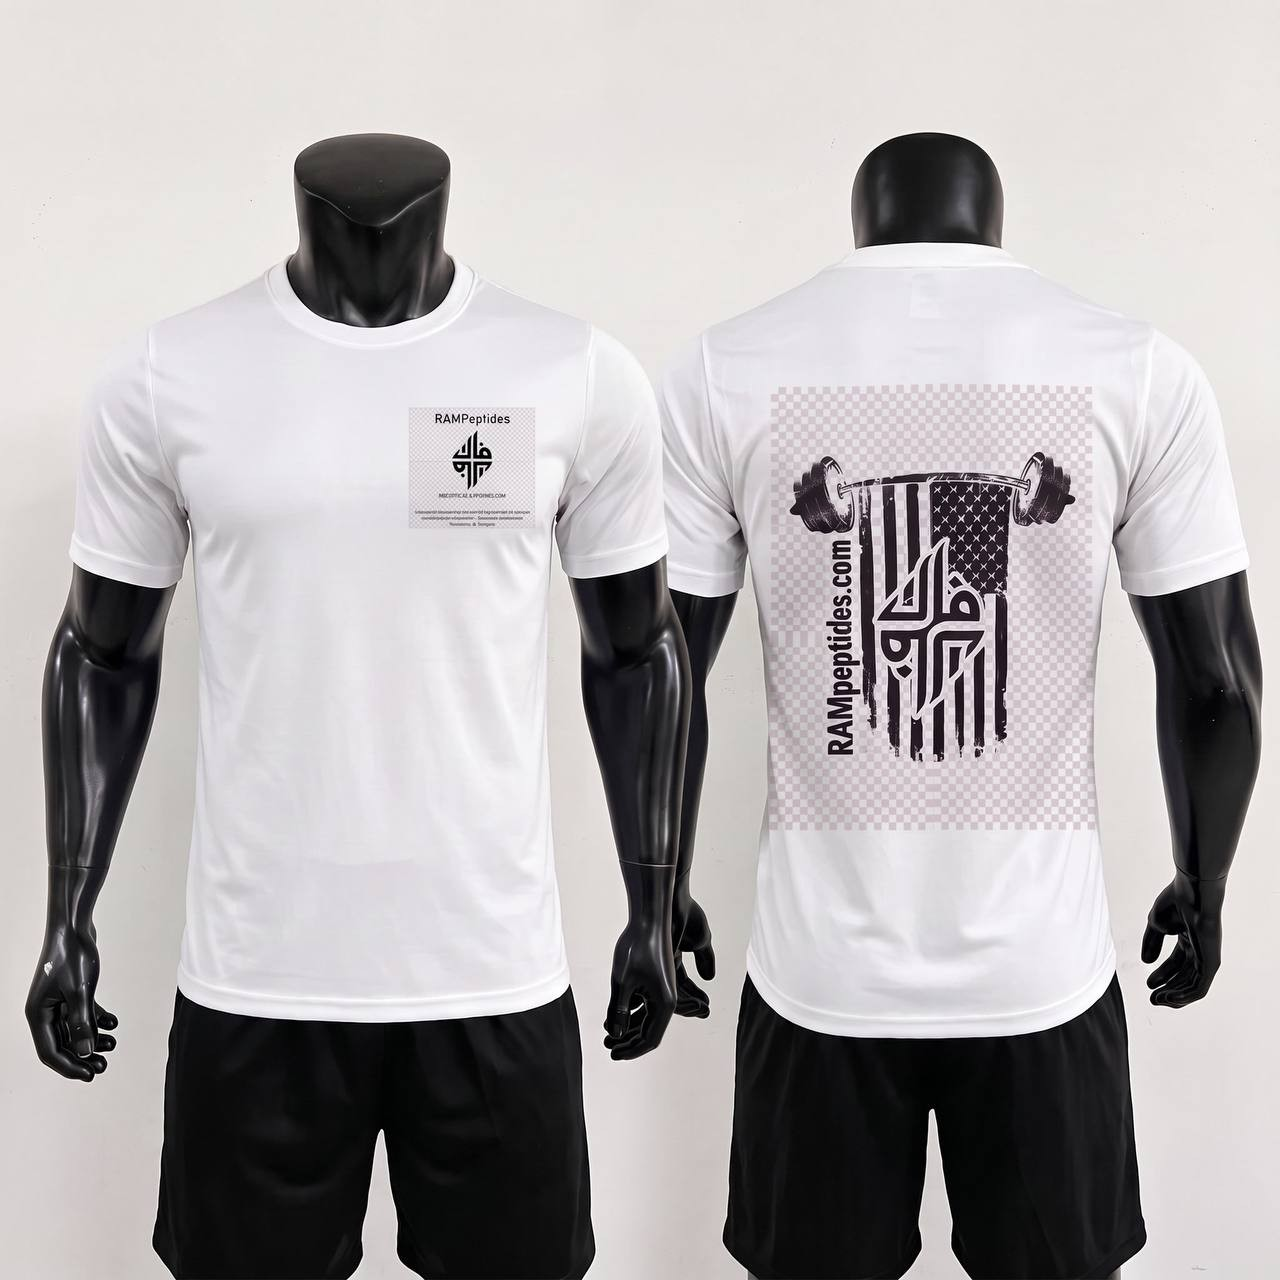
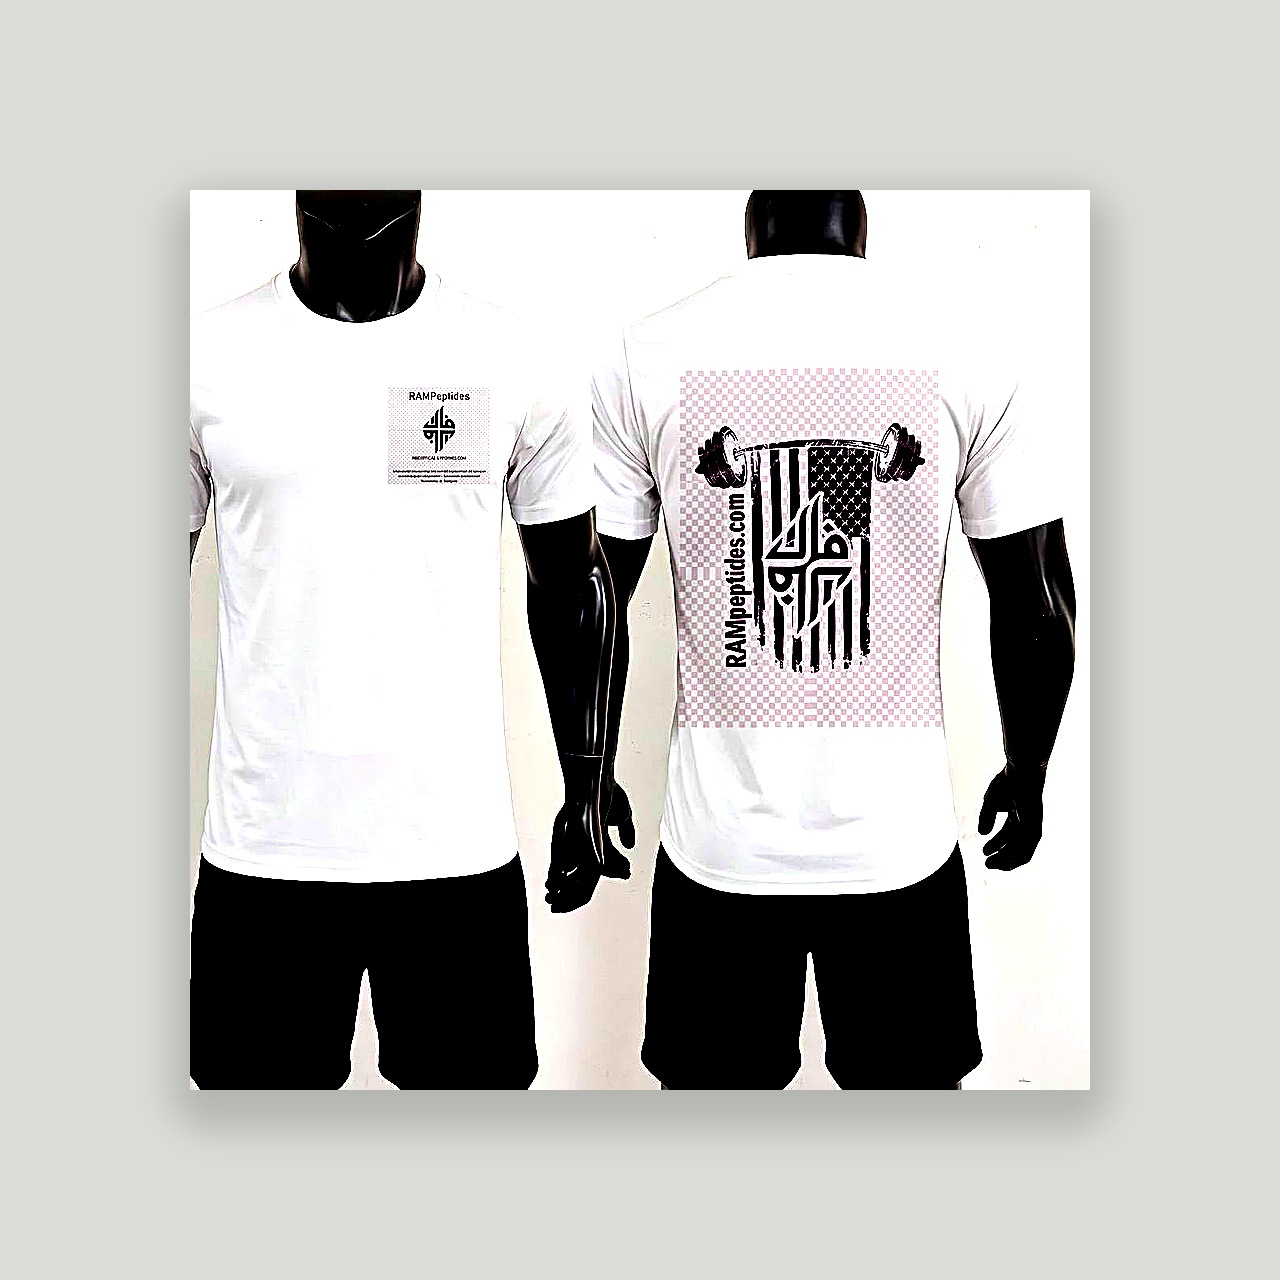
Fix blank-looking workout tee product photos
Use the black-flag back graphic as the card hero and rebuild the white tee crop so the logo is visible on /extras.

diff --git a/src/lib/catalog.ts b/src/lib/catalog.ts
@@ -714,6 +714,7 @@ export const catalog: Product[] = [
     description:
       "RAMpeptides workout t-shirt in white with the RAMpeptides American flag logo printed on the chest. Soft athletic-style tee for training or casual wear. Currently offered in size 2XL. Limited stock: 2 available. Merch accessory only; not a research compound.",
     image: "/products/workout-tshirt-2xl.jpg",
+    imageFit: "contain",
     specs: {
       purity: "Cotton blend athletic tee",
       form: "T-shirt · size 2XL · white",
@@ -773,7 +774,7 @@ export const catalog: Product[] = [
     form: "Accessory",
     priceUsd: 10,
     tagline:
-      "Black RAMpeptides workout tee with front chest logo + full-back distressed American flag print. Size 2XL. Limited stock — 1 available.",
+      "Black RAMpeptides workout tee with full-back distressed American flag print (front chest logo). Size 2XL. Limited stock — 1 available.",
     description:
       "RAMpeptides workout t-shirt in black with a small front chest RAM PEPTIDES logo and a large full-back distressed American flag graphic with brand mark and RAMpeptides.com. Soft athletic-style tee for training or casual wear. Currently offered in size 2XL. Limited stock: 1 available. Merch accessory only; not a research compound.",
     image: "/products/workout-tshirt-black-flag-2xl.jpg",
